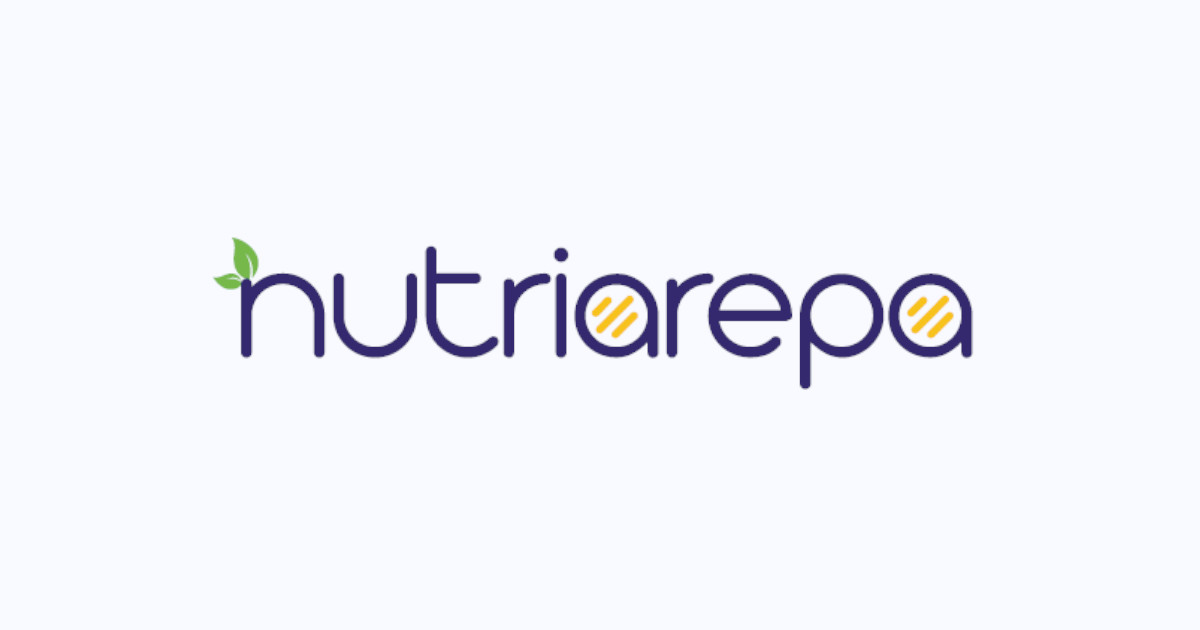
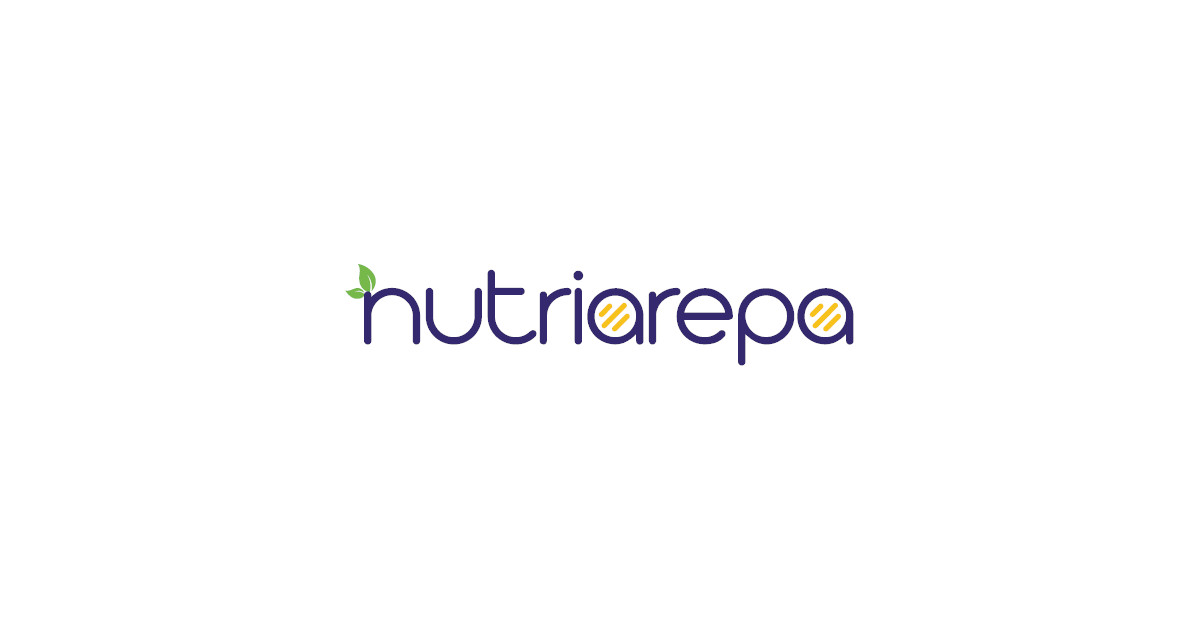
Ajustes opengraph

Changed region(s): [[0.185, 0.3619, 0.8325, 0.6333]]

diff --git a/preguntas-frecuentes.html b/preguntas-frecuentes.html
@@ -3,10 +3,15 @@
   <head>
     <meta http-equiv="content-type" content="text/html; charset=utf-8">
     <title>Nutriarepa - Preguntas Frecuentes</title>
-    <meta name="description" content="Contáctenos si quieres comprar, vender o distribuir nuestros productos o tienes una duda con nuestros envíos a nivel nacional, con gusto responderemos todas tus inquietudes">
+    <meta name="description" content="Resuelve todas tus dudas en solo paso">
     <meta name="viewport" content="width=device-width, height=device-height, initial-scale=1.0">
     <meta http-equiv="X-UA-Compatible" content="IE=edge">
     
+    <meta property="og:url"                content="https://nutriarepa.co/preguntas-frecuentes.html" />
+    <meta property="og:type"               content="website" />
+    <meta property="og:title"              content="Nutriarepa - preguntas frecuentes" />
+    <meta property="og:description"        content="Resuelve todas tus dudas en solo paso" />
+    <meta property="og:image"              content="https://nutriarepa.co/images/opengraph/nutriarepa.jpg"/>
     
     <link rel="icon" href="images/favicon.png" type="image/x-icon">
     <link rel="stylesheet" type="text/css" href="//fonts.googleapis.com/css?family=Poppins:300,400,500,600,700%7CLato%7CKalam:300,400,700">
